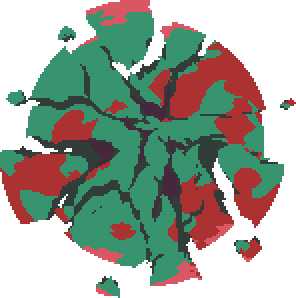
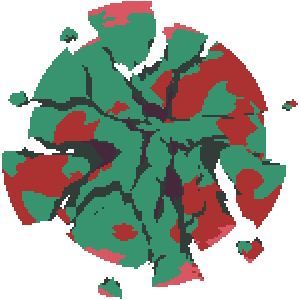
render planet

diff --git a/src/scenes/Game/index.ts b/src/scenes/Game/index.ts
@@ -22,9 +22,13 @@ export default class Game implements IScene {
   particlesToAdd: IEntity[];
   panels: Panel[];
   background: HTMLImageElement;
+  planets: HTMLImageElement[];
+  invaders: HTMLImageElement;
   flingTimer: number = randomValue(50, 10);
   flingSound: HTMLAudioElement;
   score: number;
+  imageLoader: ImageLoader = new ImageLoader();
+  invaderBob: number = 0;
 
   constructor() {
     this.entities = [];
@@ -119,16 +123,26 @@ export default class Game implements IScene {
     await this.createWalls(gameState);
     await this.createPanels();
     await this.createObstacles(gameState);
-    this.background = await new ImageLoader().loadImage(
+
+    this.background = await this.imageLoader.loadImage(
       './assets/images/background.png',
     );
+    this.invaders = await this.imageLoader.loadImage(
+      './assets/images/invaders.png',
+    );
+    this.planets = [
+      await this.imageLoader.loadImage('./assets/images/planet.png'),
+      await this.imageLoader.loadImage('./assets/images/planetDead.png'),
+    ];
+
     this.flingSound = await new SoundLoader().loadSound(
       './assets/sounds/fling.ogg',
     );
-    const player = await new Player().initialize(gameState, 0, 0);
 
+    const player = await new Player().initialize(gameState, 0, 0);
     gameState.focusedEntity = player;
     await Promise.all([this.entities.push(player)]);
+
     return true;
   }
 
@@ -175,9 +189,19 @@ export default class Game implements IScene {
     for (let panel of this.panels) {
       panel.update(gameState);
     }
+
+    // invader bob's a nice guy
+    // this variable has nothing to do with him
+    this.invaderBob += 1;
   }
 
   render(context: CanvasRenderingContext2D) {
+    context.drawImage(this.planets[0], -150, -150);
+    context.drawImage(
+      this.invaders,
+      -250,
+      -125 + Math.sin(this.invaderBob / 40) * 10,
+    );
     context.drawImage(
       this.background,
       -(GameSettings.worldWidth / 2) - 128,
